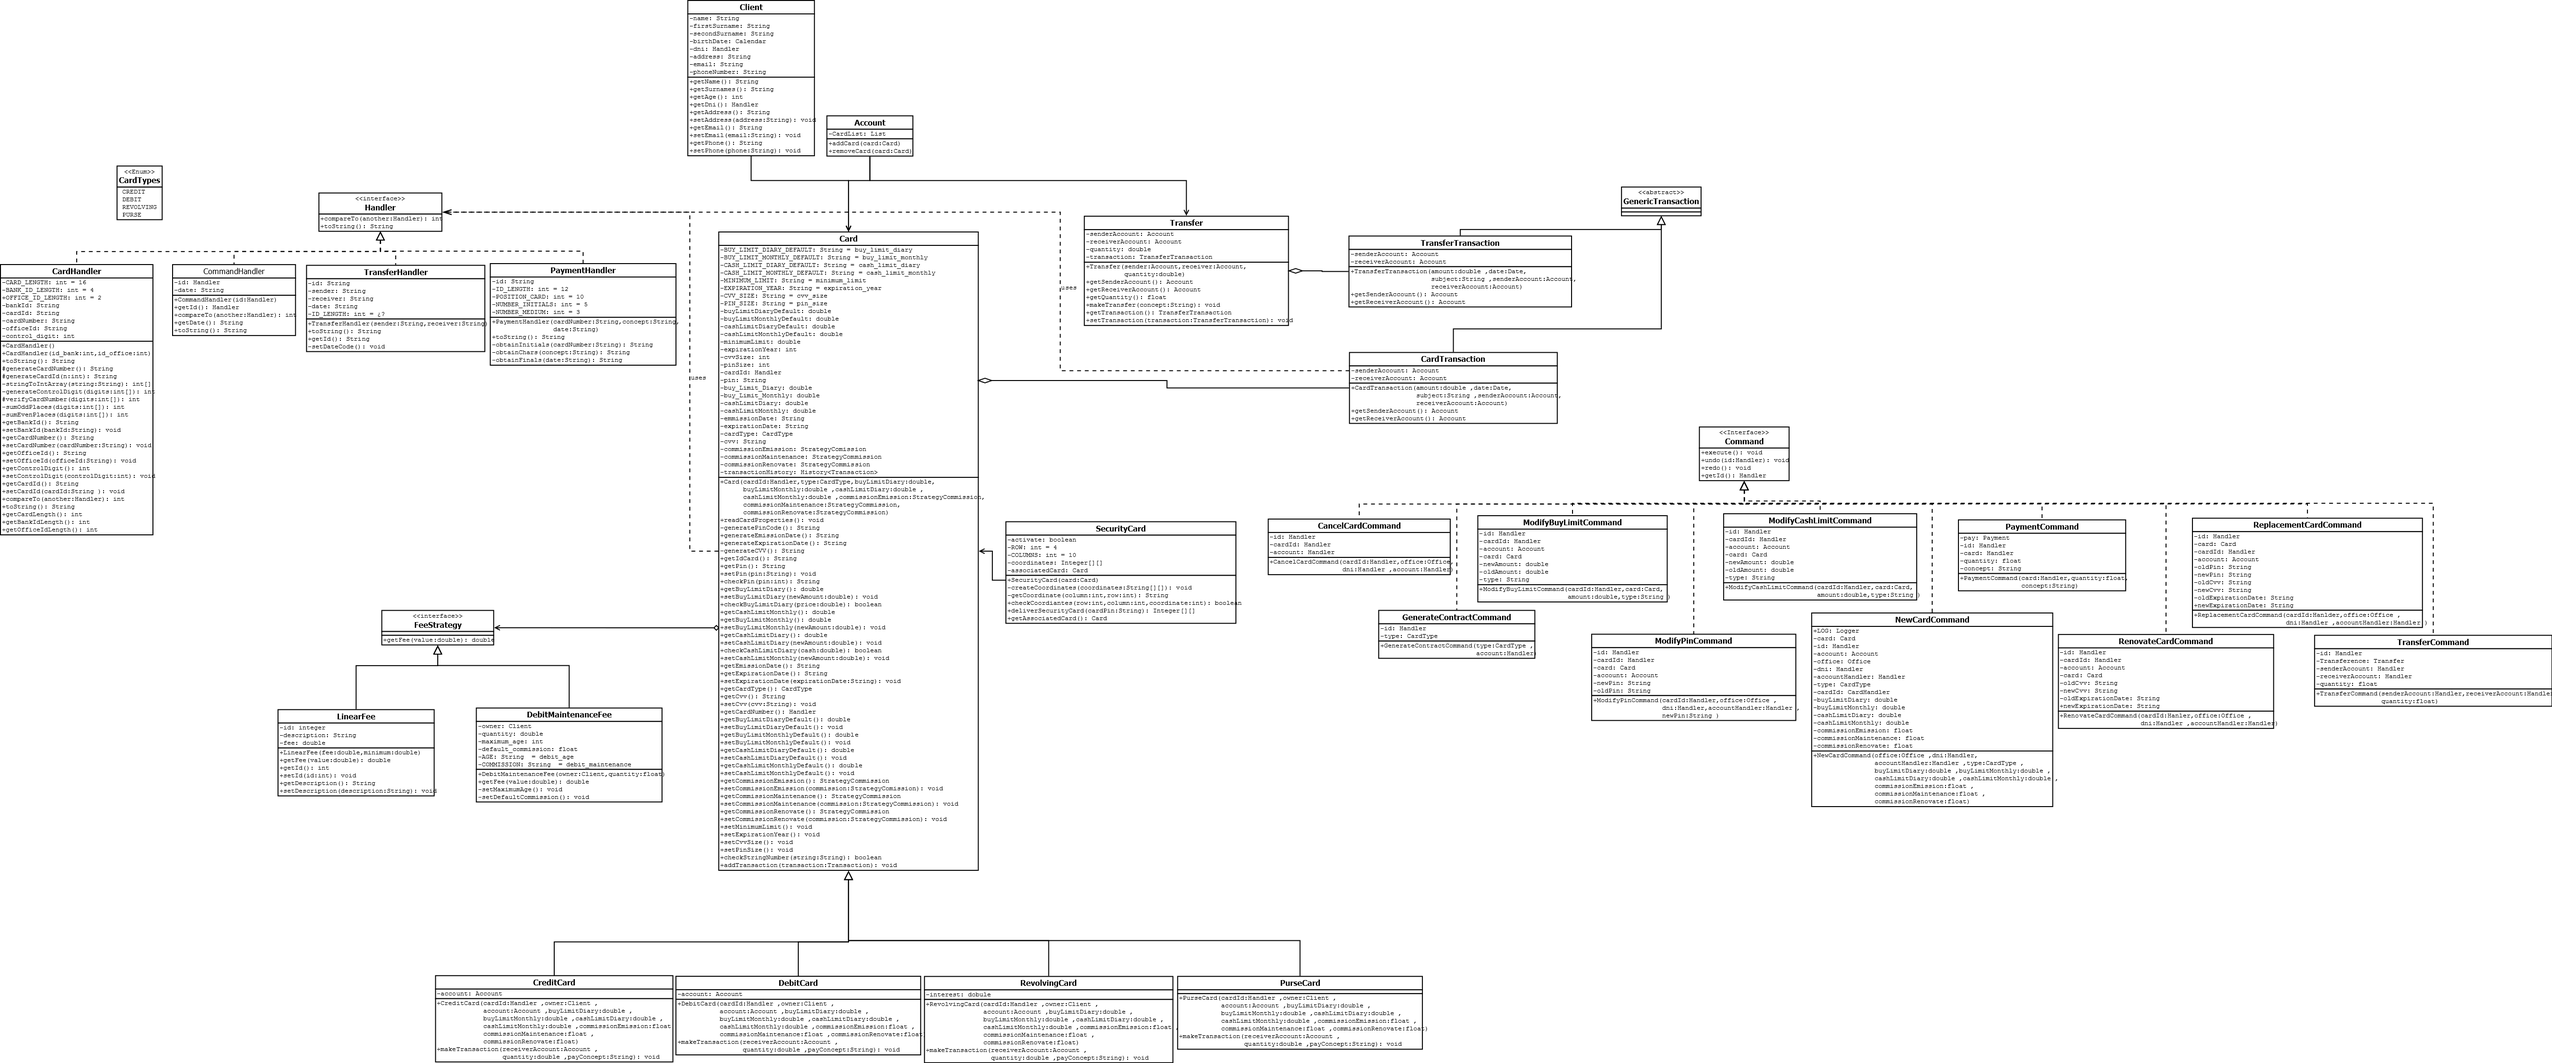
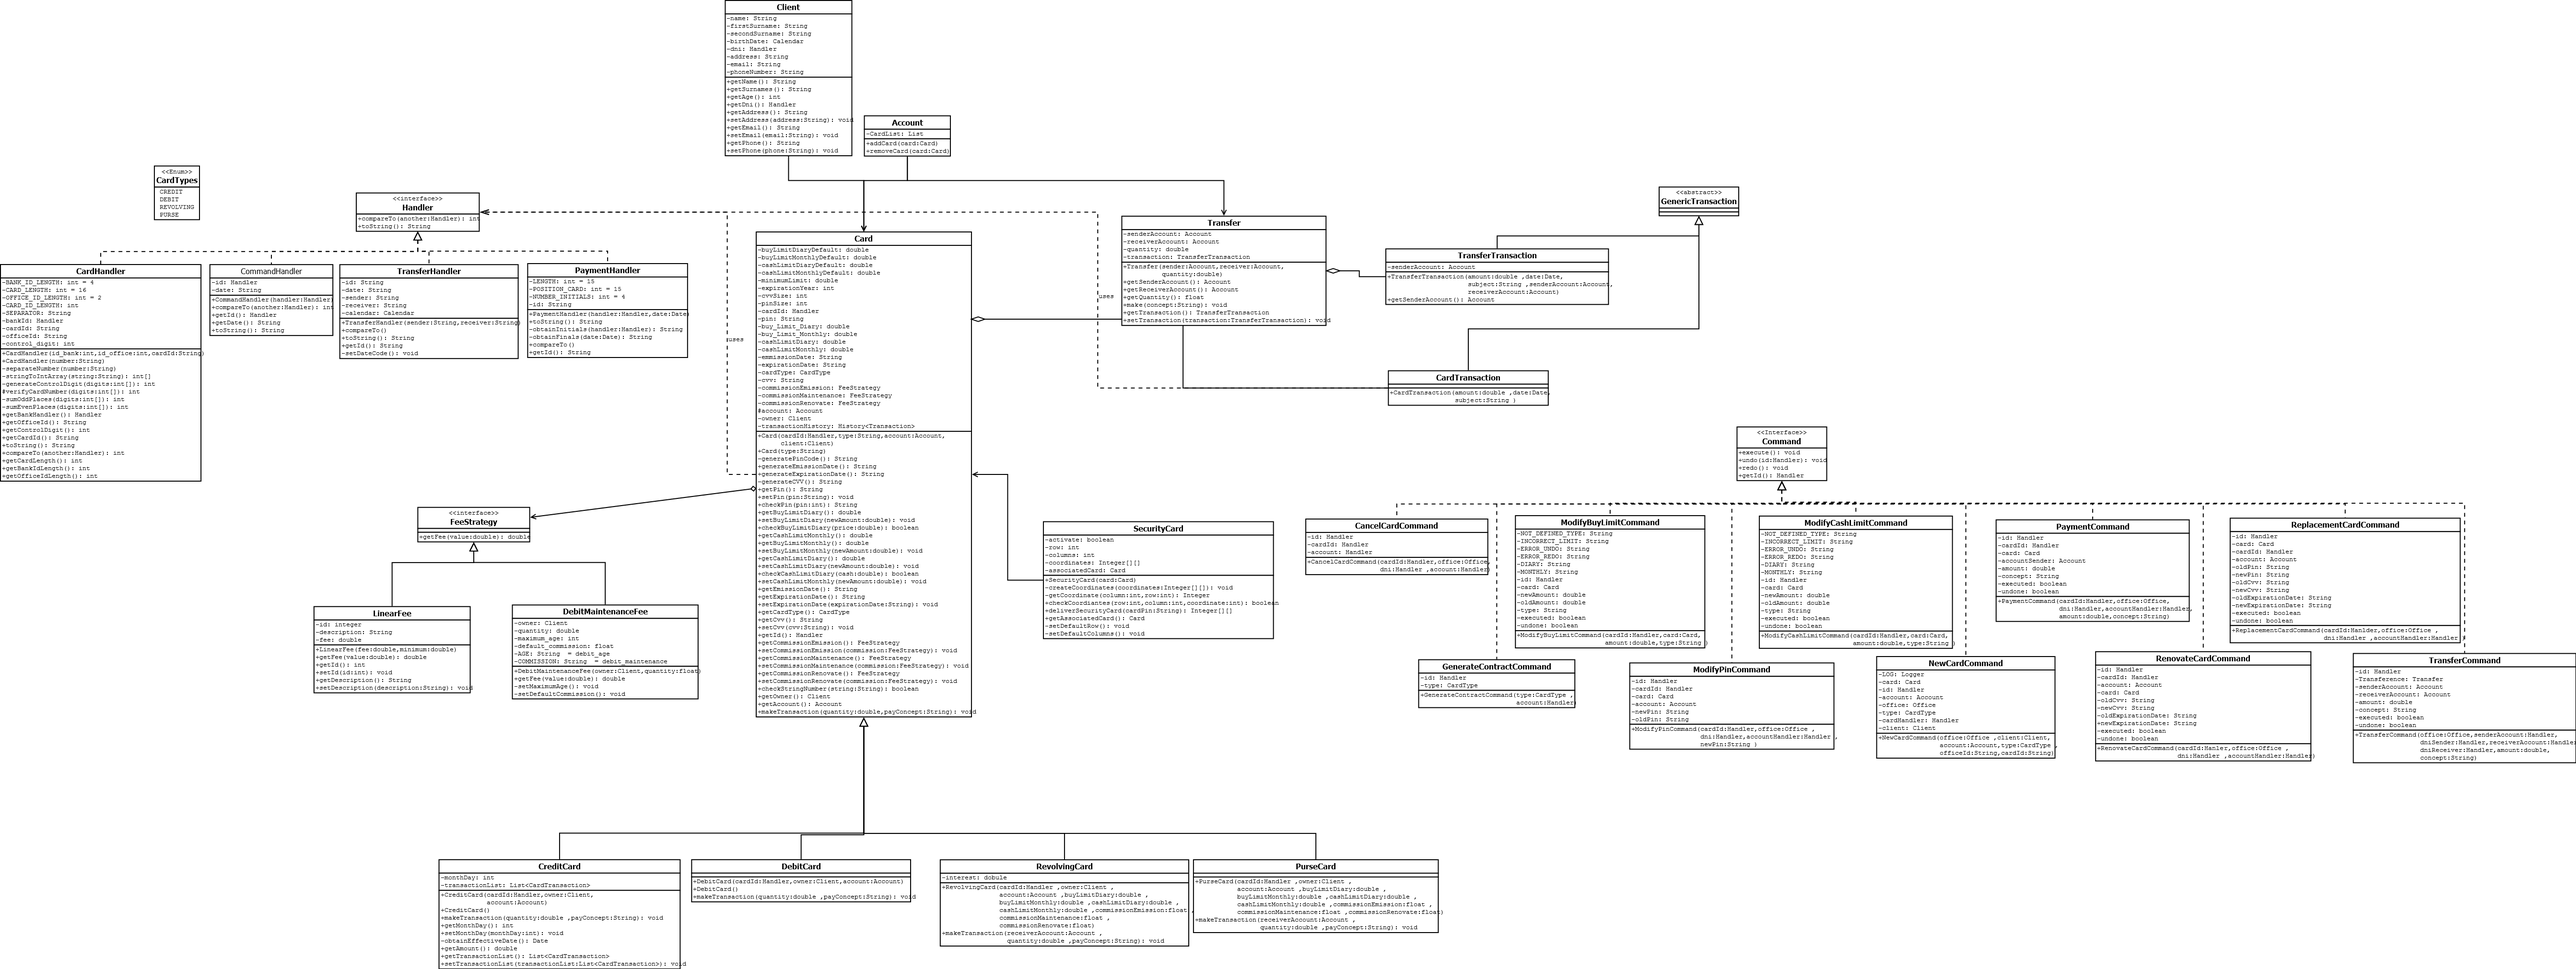
Añadido UML actualizado, corregido javadoc en cardtransaction, creditcard y debitcard

diff --git a/src/main/java/es/unileon/ulebank/payments/DebitCard.java b/src/main/java/es/unileon/ulebank/payments/DebitCard.java
@@ -1,13 +1,10 @@
 package es.unileon.ulebank.payments;
 
-import java.io.IOException;
 import java.util.Date;
 
 import es.unileon.ulebank.account.Account;
 import es.unileon.ulebank.client.Client;
-import es.unileon.ulebank.exceptions.CommissionException;
 import es.unileon.ulebank.exceptions.TransactionException;
-import es.unileon.ulebank.fees.InvalidFeeException;
 import es.unileon.ulebank.handler.Handler;
 import es.unileon.ulebank.history.CardTransaction;
 import es.unileon.ulebank.payments.exceptions.PaymentException;
@@ -28,17 +25,7 @@ public class DebitCard extends Card {
      * @param cardId
      * @param owner
      * @param account
-     * @param buyLimitDiary
-     * @param buyLimitMonthly
-     * @param cashLimitDiary
-     * @param cashLimitMonthly
-     * @param commissionEmission
-     * @param commissionMaintenance
-     * @param commissionRenovate
-     * @throws NumberFormatException
-     * @throws CommissionException
-     * @throws IOException
-     * @throws InvalidFeeException
+     * @throws PaymentException
      */
     public DebitCard(Handler cardId, Client owner, Account account) throws PaymentException {
         super(cardId, CardType.DEBIT.toString(), account, owner);

diff --git a/src/main/java/es/unileon/ulebank/payments/CreditCard.java b/src/main/java/es/unileon/ulebank/payments/CreditCard.java
@@ -6,9 +6,7 @@ import java.util.List;
 
 import es.unileon.ulebank.account.Account;
 import es.unileon.ulebank.client.Client;
-import es.unileon.ulebank.exceptions.CommissionException;
 import es.unileon.ulebank.exceptions.TransactionException;
-import es.unileon.ulebank.fees.InvalidFeeException;
 import es.unileon.ulebank.handler.Handler;
 import es.unileon.ulebank.history.CardTransaction;
 import es.unileon.ulebank.payments.exceptions.PaymentException;
@@ -37,15 +35,7 @@ public class CreditCard extends Card {
      * @param cardId
      * @param owner
      * @param account
-     * @param buyLimitDiary
-     * @param buyLimitMonthly
-     * @param cashLimitDiary
-     * @param cashLimitMonthly
-     * @param commissionEmission
-     * @param commissionMaintenance
-     * @param commissionRenovate
-     * @throws CommissionException
-     * @throws InvalidFeeException
+     * @throws PaymentException
      */
     public CreditCard(Handler cardId, Client owner, Account account) throws PaymentException {
         super(cardId, CardType.CREDIT.toString(), account, owner);

diff --git a/src/main/java/es/unileon/ulebank/history/CardTransaction.java b/src/main/java/es/unileon/ulebank/history/CardTransaction.java
@@ -17,13 +17,9 @@ public class CardTransaction extends Transaction {
      * Class constructor
      * 
      * @param amount
-     * @param datezz
+     * @param date
      * @param subject
-     * @param type
-     * @param senderAccount
-     * @param receiverAccount
      * @throws TransactionException
-     * @throws es.unileon.ulebank.exceptions.TransactionException
      */
     public CardTransaction(double amount, Date date, String subject)
             throws TransactionException {
